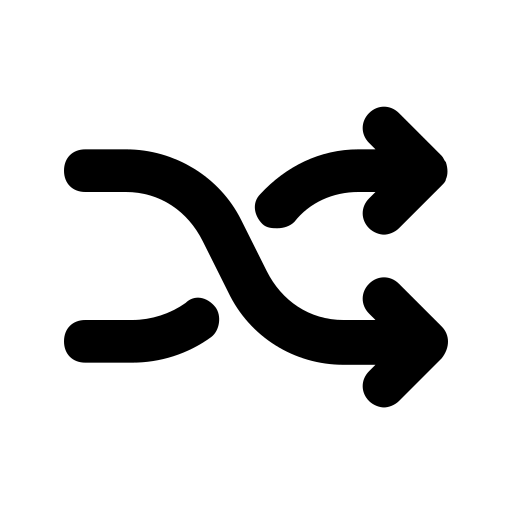
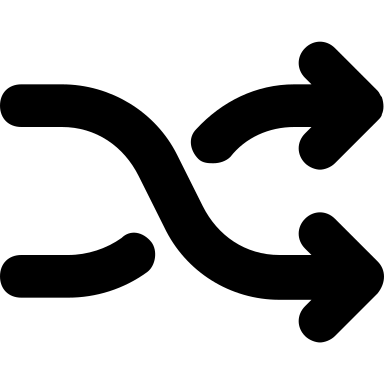
Basic frontend setup - css, navbar

diff --git a/client/src/App.js b/client/src/App.js
@@ -1,68 +1,34 @@
 import './App.css';
-import { useEffect, useState } from 'react';
-const config = require('./config.json');
+import Main from './Main';
+import NavBar from './NavBar';
+import Artist from './artist/artist';
+import Concert from './concert/concert';
+import Timeline from './timeline/timeline';
+import Playlist from './playlist/playlist';
+import Search from './search/search';
+import { Route, Routes } from "react-router-dom";
+import "@fontsource/inter"
 
 function App() {
 
-  const [testString, setTestString] = useState("the backend is not connected!");
-  const [titleString, setTitleString] = useState("");
-  const [wikiString, setWikiString] = useState("");
-  const [newString, setNewString] = useState("");
-
-  useEffect(() => {
-    fetch(`http://${config.server_host}:${config.server_port}/test`)
-      .then(res => res.text())
-      .then(resJson => {setTestString(resJson)});
-
-    let search = "eminem";
-
-    fetch(`https://en.wikipedia.org/w/api.php?origin=*&action=query&format=json&list=search&srsearch=${search}`)
-      .then(res => res.json())
-      .then(resJson => {
-        for (let i = 0; i < resJson["query"]["search"].length; i++) {
-          let string = resJson["query"]["search"][i]["snippet"];
-          let title = resJson["query"]["search"][i]["title"];
-          if ((string.indexOf("band") !== -1 || string.indexOf("music") !== -1 || string.indexOf("sing") !== -1
-          || string.indexOf("artist") !== -1 || title.indexOf("band") !== -1) &&
-          (title.indexOf("disambiguation") === -1 && title.indexOf("album") === -1 && title.indexOf("ography") === -1)) {
-            setTitleString(resJson["query"]["search"][i]["title"]);
-            break;
-          }
-        }
-      });
-
-    fetch(`https://en.wikipedia.org/w/api.php?origin=*&action=query&format=json&prop=extracts&titles=${titleString}&formatversion=2&exintro=1`)
-      .then(res => res.json())
-      .then(resJson => {
-        let string = new DOMParser().parseFromString(resJson["query"]["pages"][0]["extract"], "text/html");
-        setWikiString(string.firstChild.innerText);
-      });
-  }, [titleString]);
-
   return (
     <div className="App">
-      <header className="App-header">
-        <p>
-          {titleString}
-        </p>
-        <p>
-          {testString}
-        </p>
-      </header>
-      {wikiString}
-
-      <p>
-      <img src="https://i.scdn.co/image/ab67616d00001e0221ebf49b3292c3f0f575f0f5" alt="album cover" />
-      </p>
-
-      <p>
-      <audio controls src="https://p.scdn.co/mp3-preview/80a49eba7f6517d4f1364e5b0a96d5dd08cff4ef?cid=4253f1c121cd47208ee35324d5b090b2"></audio>
-      </p>
-
-      hello
-      {newString}
-
+      <NavBar />
+      <div className="contain">
+        <div className="topBar"></div>
+        <div className="routePanel">
+          <Routes>
+            <Route exact path="/" element={<Main />} />
+            <Route exact path="/timeline" element={<Timeline />} />
+            <Route exact path="/search" element={<Search />} />
+            <Route path="/playlist" element={<Playlist />} />
+            <Route path="/artist" element={<Artist />} />
+            <Route path="/concert" element={<Concert />} />
+            <Route path="*" element={<Main />} />
+          </Routes>
+        </div>
       </div>
+    </div>
   );
 }
 

diff --git a/client/src/NavBar.css b/client/src/NavBar.css
@@ -1,0 +1,69 @@
+.navBackground {
+    background-color: var(--dark-accent);
+    min-width: 250px;
+    width: 15%;
+    height: 100vh;
+    display: flex;
+    flex-direction: column;
+    justify-content: flex-start;
+}
+
+.navBox {
+    color: var(--text-dark);
+    text-decoration: none;
+    padding: 15px;
+    font-size: 16px;
+    display: flex;
+    justify-content: center;
+    align-items: center;
+    font-weight: 600;
+}
+
+.isactive {
+    color: var(--text-light);
+}
+
+.isactive > .navIcon {
+    background: var(--text-light);
+}
+
+.flexContainer {
+    display: flex;
+    flex-direction: column;
+    align-items: flex-start;
+    padding: 0px 15%;
+    margin-top: 5%;
+}
+
+.logo {
+    height: 5vh;
+    min-height: 70px;
+    display: flex;
+    align-items: center;
+    justify-content: center;
+}
+
+.logoImg {
+    height: 45px;
+    margin-right: 15px;
+}
+
+.navIcon {
+    height: 30px;
+    width: 30px;
+    background: var(--text-dark);
+    mask-size: 30px;
+    margin-right: 25px;
+}
+
+.timeline {
+    mask-image: url('./assets/8664969_chart_line_analytics_icon.png');
+}
+
+.search {
+    mask-image: url('./assets/510861_find_magnifying glass_search_zoom_icon.png');
+}
+
+.playlist {
+    mask-image: url('./assets/9104257_shuffle_random_mix_icon.png');
+}

diff --git a/client/src/NavBar.js b/client/src/NavBar.js
@@ -1,0 +1,44 @@
+import { NavLink } from "react-router-dom";
+import './NavBar.css';
+import logo from './assets/logo.png';
+
+function NavBar() {
+
+  return (
+    <div>
+      <nav className='navBackground'>
+        <div className="logo">
+          <NavLink exact="true" to="/">
+          <img className="logoImg" src={ logo } alt="Music Hall"></img>
+          </NavLink>
+        </div>
+
+        <div className="flexContainer">
+          <NavLink
+              className={({ isActive }) =>
+              isActive ? 'isactive navBox': 'inactive navBox'}
+              exact="true" to="/timeline">
+                <div className="navIcon timeline"></div>Timeline
+          </NavLink>
+
+          <NavLink
+              className={({ isActive }) =>
+              isActive ? 'isactive navBox': 'inactive navBox'}
+              exact="true" to="/search">
+                <div className="navIcon search"></div>Search
+          </NavLink>
+
+          <NavLink
+              className={({ isActive }) =>
+              isActive ? 'isactive navBox': 'inactive navBox'}
+              exact="true" to="/playlist">
+                <div className="navIcon playlist"></div>Playlist
+          </NavLink>
+        </div>
+
+      </nav>
+    </div>
+  );
+}
+
+export default NavBar;

diff --git a/client/src/App.css b/client/src/App.css
@@ -1,3 +1,43 @@
+:root {
+  --bg-color: #373232;
+  --dark-accent: #241C1C;
+  --light-accent: #2D2626;
+  --text-light: #FFFFFF;
+  --text-dark: #AFABAA;
+}
+
+html, body {
+  background-color: var(--bg-color);
+  height: 100vh;
+  width: 100vw;
+  color: var(--text-dark);
+  font-family: "Inter";
+}
+
 .App {
   text-align: center;
+  height: 100%;
+  width: 100%;
+  display: flex;
+  flex-direction: row;
+}
+
+.contain {
+  display: flex;
+  justify-content: center;
+  align-items: center;
+  flex-direction: column;
+  width: 100%;
+  height: 100%;
+}
+
+.topBar {
+  background-color: var(--light-accent);
+  min-height: 70px;
+  height: 5vh;
+  width: 100%;
+}
+
+.routePanel {
+  margin: 30px;
 }

diff --git a/client/src/Main.js b/client/src/Main.js
@@ -1,0 +1,22 @@
+
+import { useEffect, useState } from 'react';
+const config = require('./config.json');
+
+function Main() {
+
+    const [testString, setTestString] = useState("the backend is not connected!");
+
+    useEffect(() => {
+      fetch(`http://${config.server_host}:${config.server_port}/test`)
+        .then(res => res.text())
+        .then(resJson => {setTestString(resJson); console.log(testString);});
+    }, [testString]);
+
+    return (
+        <div>
+          {testString}
+        </div>
+    );
+}
+
+export default Main;

diff --git a/client/src/index.js b/client/src/index.js
@@ -2,10 +2,13 @@ import React from 'react';
 import ReactDOM from 'react-dom/client';
 import './index.css';
 import App from './App';
+import { BrowserRouter } from 'react-router-dom';
 
 const root = ReactDOM.createRoot(document.getElementById('root'));
 root.render(
   <React.StrictMode>
-    <App />
+    <BrowserRouter>
+      <App />
+    </BrowserRouter>
   </React.StrictMode>
 );

diff --git a/client/src/playlist/playlist.js b/client/src/playlist/playlist.js
@@ -1,0 +1,10 @@
+function Playlist() {
+
+    return (
+        <div>
+
+        </div>
+    );
+}
+
+export default Playlist;

diff --git a/client/src/timeline/timeline.js b/client/src/timeline/timeline.js
@@ -1,0 +1,10 @@
+function Timeline() {
+
+    return (
+        <div>
+
+        </div>
+    );
+}
+
+export default Timeline;

diff --git a/client/src/concert/concert.js b/client/src/concert/concert.js
@@ -1,0 +1,10 @@
+function Concert() {
+
+    return (
+        <div>
+
+        </div>
+    );
+}
+
+export default Concert;

diff --git a/client/src/artist/artist.js b/client/src/artist/artist.js
@@ -1,0 +1,10 @@
+function Artist() {
+
+    return (
+        <div>
+
+        </div>
+    );
+}
+
+export default Artist;

diff --git a/client/src/search/search.js b/client/src/search/search.js
@@ -1,0 +1,10 @@
+function Search() {
+
+    return (
+        <div>
+
+        </div>
+    );
+}
+
+export default Search;
